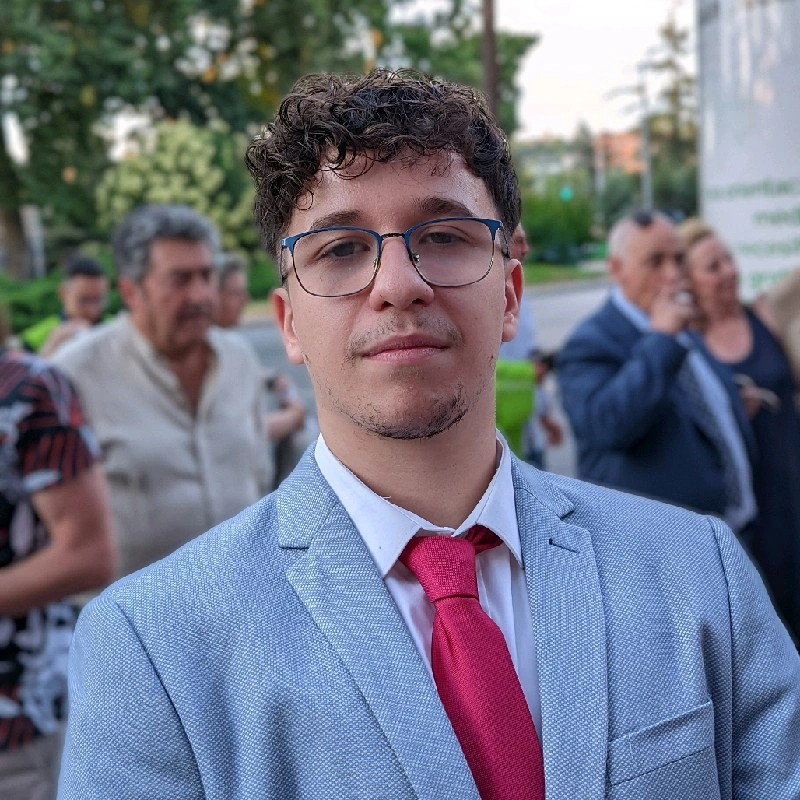
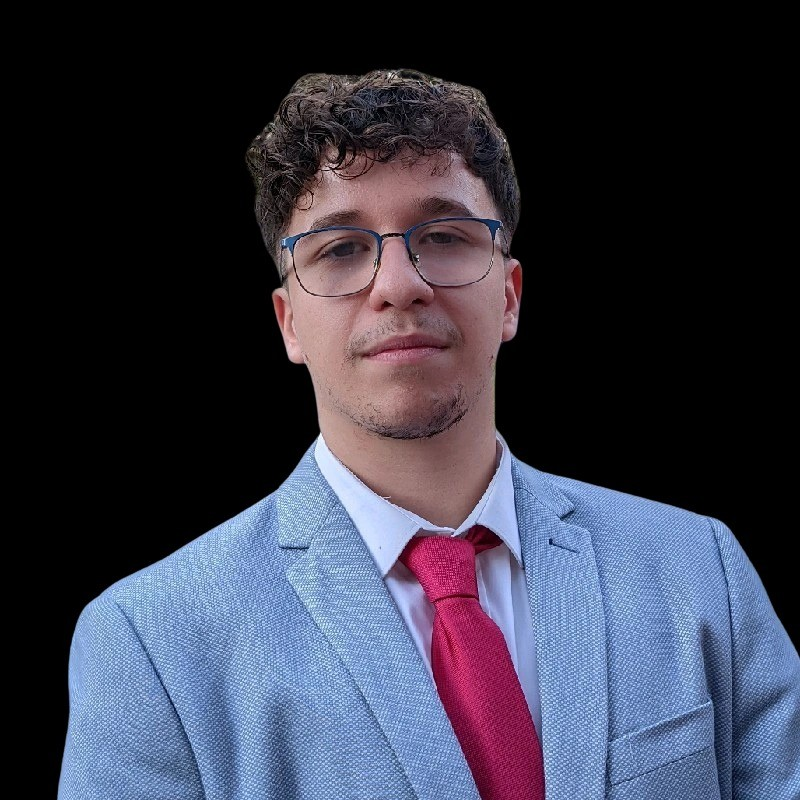
Actualización de Porfolio

diff --git a/index.html b/index.html
@@ -112,6 +112,17 @@
             Experiencia Laboral</h2>
         <div class="space-y-8">
             <div
+            class="flex flex-col md:flex-row items-center bg-gray-800 rounded-lg shadow-lg hover-highlight fade-in">
+            <img src="imagenes/WIT-CREATIVO.png" alt="Wit Creativo"
+                class="w-60 h-60 object-cover rounded-t-lg md:rounded-l-lg md:rounded-t-none"
+                style="background:white">
+            <div class="p-4">
+                <h3 class="text-3xl font-bold">Desarrollador Web (Junior)</h3>
+                <p class="text-green-400">Wit Creativo (03/2024 – actual)</p>
+                <p class="mt-2">Desarrollador web encargado del montaje y mantenimiento páginas webs responsivas utilizando <strong>Elementor</strong>, <strong>WooComerce</strong> y <strong>JetEngine</strong> dentro de <strong>Wordpress</strong> para clientes digitales de la empresa.</p>
+            </div>
+        </div>
+            <div
                 class="flex flex-col md:flex-row items-center bg-gray-800 rounded-lg shadow-lg hover-highlight fade-in">
                 <img src="imagenes/oyr.jpeg" alt="OYR Solutions SL"
                     class="w-60 h-60 object-cover rounded-t-lg md:rounded-l-lg md:rounded-t-none"
@@ -119,7 +130,7 @@
                 <div class="p-4">
                     <h3 class="text-3xl font-bold">Desarrollador Full Stack (Junior)</h3>
                     <p class="text-green-400">OYR Solutions SL (03/2024 – 06/2024)</p>
-                    <p class="mt-2">Creación de módulos de PHP en Dolibarr e instalaciones de red a domicilio.</p>
+                    <p class="mt-2">Creación de módulos de <strong>PHP</strong>en <strong>Dolibarr</strong> e instalaciones de red a domicilio.</p>
                 </div>
             </div>
             <div
@@ -141,7 +152,7 @@
                 <div class="p-4">
                     <h3 class="text-3xl font-bold">Diseñador Gráfico</h3>
                     <p class="text-green-400">Property Partners Phelan Herterich (06/2021 – 08/2021)</p>
-                    <p class="mt-2">Diseño de anuncios y edición de video.</p>
+                    <p class="mt-2">Diseño de anuncios y edición de video utilizando herramientas digitales como <strong>Canva</strong> y <strong>Adobe Photoshop</strong>.</p>
                 </div>
             </div>
             <div
@@ -176,6 +187,9 @@
                     <ol>Docker</ol>
                     <ol>Bootstrap</ol>
                     <ol>Tailwind</ol>
+                    <ol>Elementor</ol>
+                    <ol>WooComerce</ol>
+                    <ol>JetEngine</ol>
                 </ul>
             </div>
             <div class="bg-gray-800 rounded-lg p-6 shadow-lg fade-in" id="tarjeta">
@@ -235,6 +249,8 @@
                     <ol>GitHub</ol>
                     <ol>XAMP</ol>
                     <ol>Unity</ol>
+                    <ol>Odoo</ol>
+                    <ol>Holded</ol>
                 </ul>
             </div>
             <div class="bg-gray-800 rounded-lg p-6 shadow-lg fade-in" id="tarjeta">
@@ -289,6 +305,7 @@
                     <ol>Windows</ol>
                     <ol>Linux</ol>
                     <ol>Android</ol>
+                    <ol>iOS</ol>
                 </ul>
             </div>
             <div class="bg-gray-800 rounded-lg p-6 shadow-lg fade-in" id="tarjeta">
@@ -378,26 +395,6 @@
 
             <!-- Proyecto 4 -->
             <div class="bg-gray-800 rounded-lg p-6 shadow-lg flex flex-col items-center fade-in" id="tarjeta">
-
-                <img src="imagenes/pollorico.jpg" alt="Pollo Rico Logo" class="mb-4"
-                    style="width: 250px; height: 250px;">
-                
-                <h3 class="text-2xl text-green-400">Página web para negocio local</h3>
-
-                <p class="text-white text-center mt-4">
-                    <strong>Nombre:</strong> "Pollo Rico Atarfe" <br>
-                    <strong>Cliente:</strong> Restaurante "Pollo Rico Atarfe" <br>
-                    <strong>Tecnologías:</strong> WordPress, MySQL <br>
-                    <strong>Descripción:</strong> Página web moderna y atractiva para restaurantes, con sistema de
-                    reservas en línea, catálogo, y galería de imágenes.
-                </p>
-                <a href="https://polloricoatarfe.wordpress.com/inicio/" target="_blank"
-                    class="text-blue-500 underline mt-4 block"
-                    style="color:rgb(96 165 250 / var(--tw-text-opacity, 1))">Haz click aquí</a>
-            </div>
-
-            <!-- Proyecto 5 -->
-            <div class="bg-gray-800 rounded-lg p-6 shadow-lg flex flex-col items-center fade-in" id="tarjeta">
                 <img src="imagenes/maxmanga.png" alt="MaxManga Logo" class="mb-4" style="width: 250px; height: 250px;">
                 <h3 class="text-2xl text-green-400">Aplicación móvil para lectura de libros</h3>
 
@@ -409,7 +406,7 @@
                 </p>
             </div>
 
-            <!-- Proyecto 6 -->
+            <!-- Proyecto 5 -->
             <div class="bg-gray-800 rounded-lg p-6 shadow-lg flex flex-col items-center fade-in" id="tarjeta">
                 <img src="imagenes/dampong.png" alt="Dampong Logo" class="mb-4" style="width: 250px; height: 250px;">
               
@@ -423,7 +420,7 @@
                 </p>
             </div>
 
-            <!-- Proyecto 7 -->
+            <!-- Proyecto 6 -->
             <div class="bg-gray-800 rounded-lg p-6 shadow-lg flex flex-col items-center fade-in" id="tarjeta">
                 <img src="imagenes/MaxmangaC.png" alt="MaxManga Community Logo" class="mb-4"
                     style="width: 250px; height: 250px;">
@@ -437,7 +434,7 @@
                 </p>
             </div>
 
-            <!-- Proyecto 8 -->
+            <!-- Proyecto 7 -->
             <div class="bg-gray-800 rounded-lg p-6 shadow-lg flex flex-col items-center fade-in" id="tarjeta">
                 <img src="imagenes/AtarfeFighting.png" alt="MaxManga Community Logo" class="mb-4"
                     style="width: 250px; height: 250px;">
@@ -502,7 +499,7 @@
     <!-- Idiomas Section -->
     <section class="container mx-auto px-6 py-12 fade-in" id="languages">
         <h2 class="text-4xl font-extrabold text-center mb-8 uppercase apartado">Idiomas</h2>
-        <div class="bg-gray-800 rounded-lg p-6 shadow-lg hover:shadow-2xl transition-shadow duration-300"
+        <div class="bg-gray-800 rounded-lg text-center p-6 shadow-lg hover:shadow-2xl transition-shadow duration-300"
             id="formacion">
             <p class="text-white text-lg">
                 <strong class="text-green-300">Español:</strong> Nativo
